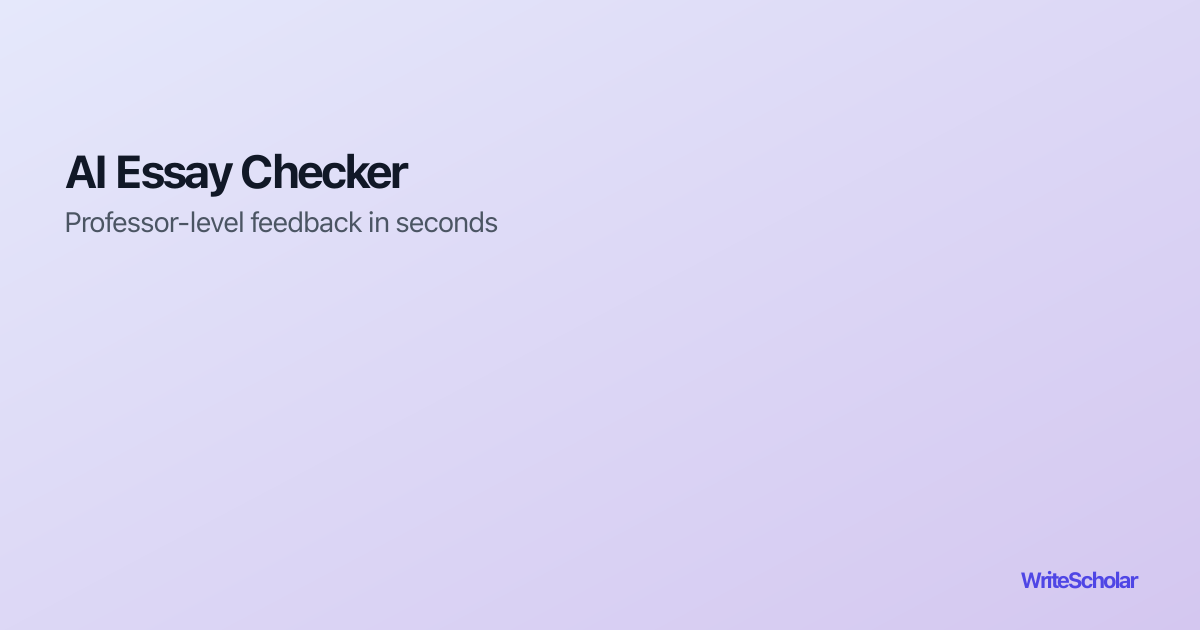
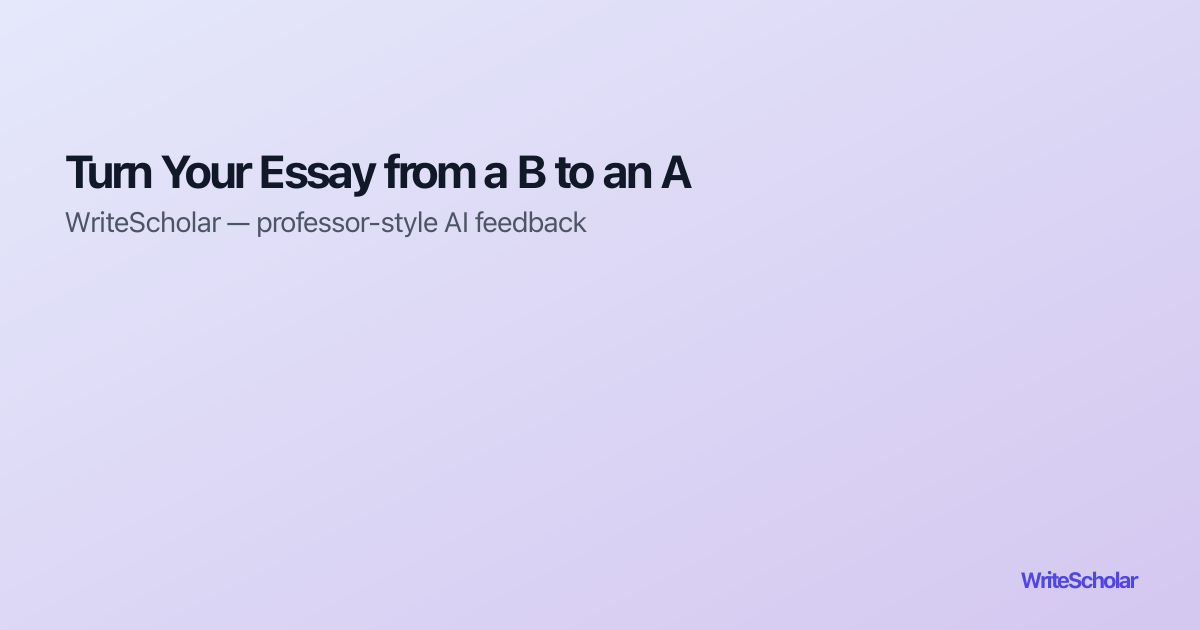
SEO: homepage title B→A; regenerate landing OG image
Made-with: Cursor

Changed region(s): [[0.0308, 0.2413, 0.5858, 0.3921]]

diff --git a/index.html b/index.html
@@ -16,14 +16,14 @@
     <meta name="viewport" content="width=device-width, initial-scale=1.0, viewport-fit=cover" />
 
     <!-- PRIMARY SEO META TAGS -->
-    <title>AI Essay Checker — Professor-Level Feedback in Seconds | WriteScholar</title>
-    <meta name="description" content="Professor-level essay feedback in seconds—structure, argument, citations, and clarity. Plus study packs, quizzes, and Focus Mode. Free to try." />
+    <title>WriteScholar: Turn Your Essay from a B to an A</title>
+    <meta name="description" content="Let our advanced AI check your essay and get professor-style feedback in seconds. Improve your grade instantly." />
 
     <!-- OPEN GRAPH -->
     <meta property="og:type" content="website" />
     <meta property="og:url" content="https://writescholar.com/" />
-    <meta property="og:title" content="AI Essay Checker — Professor-Level Feedback in Seconds | WriteScholar" />
-    <meta property="og:description" content="Professor-level essay feedback in seconds—structure, argument, citations, and clarity. Plus study packs, quizzes, and Focus Mode. Free to try." />
+    <meta property="og:title" content="WriteScholar: Turn Your Essay from a B to an A" />
+    <meta property="og:description" content="Let our advanced AI check your essay and get professor-style feedback in seconds. Improve your grade instantly." />
     <meta property="og:image" content="https://writescholar.com/og/landing.png" />
     <meta property="og:image:width" content="1200" />
     <meta property="og:image:height" content="630" />
@@ -33,8 +33,8 @@
 
     <!-- TWITTER CARD -->
     <meta name="twitter:card" content="summary_large_image" />
-    <meta name="twitter:title" content="AI Essay Checker — Professor-Level Feedback in Seconds | WriteScholar" />
-    <meta name="twitter:description" content="Professor-level essay feedback in seconds—structure, argument, citations, and clarity. Plus study packs, quizzes, and Focus Mode. Free to try." />
+    <meta name="twitter:title" content="WriteScholar: Turn Your Essay from a B to an A" />
+    <meta name="twitter:description" content="Let our advanced AI check your essay and get professor-style feedback in seconds. Improve your grade instantly." />
     <meta name="twitter:image" content="https://writescholar.com/og/landing.png" />
     <meta name="twitter:image:alt" content="WriteScholar — AI essay feedback and study tools for college and university students." />
     <meta name="twitter:site" content="@writescholar" />
@@ -56,7 +56,7 @@
       "applicationCategory": "EducationalApplication",
       "applicationSubCategory": "Study Tools",
       "operatingSystem": "Web",
-      "description": "Professor-level essay feedback in seconds—structure, argument, citations, and clarity. Plus study packs, quizzes, and Focus Mode. Free to try.",
+      "description": "Let our advanced AI check your essay and get professor-style feedback in seconds. Improve your grade instantly.",
       "url": "https://writescholar.com",
       "featureList": ["Essay Analyzer - Get Professor-Style Feedback", "Grade-Level Rubric", "Focus Mode - Block Websites Until You Study", "AI Quiz Generator", "AI Flashcard Maker", "AI Crossword Builder", "Paper Summarizer", "Citation Finder"],
       "offers": [
@@ -91,8 +91,8 @@
   <body>
     <div id="root"></div>
     <noscript>
-      <h1>AI Essay Checker with Professor-Level Feedback in Seconds</h1>
-      <p>Professor-level essay feedback in seconds—structure, argument, citations, and clarity. Plus study packs, quizzes, and Focus Mode. Free to try.</p>
+      <h1>WriteScholar: Turn Your Essay from a B to an A</h1>
+      <p>Let our advanced AI check your essay and get professor-style feedback in seconds. Improve your grade instantly.</p>
       <h2>Analyze Papers with Feedback That Thinks Like a Professor</h2>
       <h2>Earn Your Screen Time. Block Sites Until You Study</h2>
       <h2>Create Study Material from Any Notes in Seconds</h2>

diff --git a/src/components/pages/LandingPage.tsx b/src/components/pages/LandingPage.tsx
@@ -691,13 +691,12 @@ const LandingPage = ({ onNavigate, user }: LandingPageProps) => {
                   className="text-[1.5rem] sm:text-4xl lg:text-[2.65rem] xl:text-[2.75rem] font-semibold tracking-tight leading-[1.15] mb-4 text-center px-0.5 break-words text-balance"
                   style={{ fontFamily: "'EB Garamond', Georgia, 'Times New Roman', serif" }}
                 >
-                  <span className="text-stone-900 dark:text-stone-50">AI Essay Checker with </span>
-                  <span className="text-emerald-800 dark:text-emerald-400">Professor</span>
-                  <span className="text-stone-900 dark:text-stone-50">-</span>
-                  <span className="text-amber-700 dark:text-amber-400">Level</span>{' '}
-                  <span className="text-red-700 dark:text-red-400">Feedback</span>
-                  <span className="text-stone-900 dark:text-stone-50"> in Seconds</span>
-            </h1>
+                  <span className="text-violet-700 dark:text-violet-300">WriteScholar:</span>{' '}
+                  <span className="text-stone-900 dark:text-stone-50">Turn Your Essay from a </span>
+                  <span className="text-amber-700 dark:text-amber-400">B</span>
+                  <span className="text-stone-900 dark:text-stone-50"> to an </span>
+                  <span className="text-emerald-700 dark:text-emerald-400">A</span>
+                </h1>
                 <p className="text-base sm:text-[1.05rem] text-stone-600 dark:text-stone-400 mb-4 max-w-xl mx-auto text-center leading-relaxed">
                   <span className="font-semibold text-stone-800 dark:text-stone-200">Better Essays. Higher Grades. Instantly. </span>
                   See exactly what to fix before you submit.

diff --git a/src/components/CompleteAcademicAIApp.tsx b/src/components/CompleteAcademicAIApp.tsx
@@ -275,7 +275,7 @@ const AcademicAIApp = () => {
     string,
     { title: string; description: string; ogImage?: string; ogImageAlt?: string }
   > = {
-    landing: { title: 'AI Essay Checker — Professor-Level Feedback in Seconds | WriteScholar', description: 'Professor-level essay feedback in seconds—structure, argument, citations, and clarity. Plus study packs, quizzes, and Focus Mode. Free to try.' },
+    landing: { title: 'WriteScholar: Turn Your Essay from a B to an A', description: 'Let our advanced AI check your essay and get professor-style feedback in seconds. Improve your grade instantly.' },
     analyze: { title: 'AI Essay Checker — Professor-Level Feedback in Seconds | WriteScholar', description: 'Paste or upload your paper for professor-level feedback on thesis, evidence, structure, and citations. Choose your education level for rubrics that match your course. Free to try.' },
     citations: { title: 'Citation Finder for College Papers — APA, MLA, Chicago | WriteScholar', description: 'Find peer-reviewed sources for research papers. Search by topic; export APA, MLA, Chicago, or Harvard citations. Built for bibliographies and lit reviews.' },
     'study-pack': { title: 'AI Study Pack — Lesson, Flashcards, Quiz, Crossword & More | WriteScholar', description: 'Turn notes into a lesson, flashcards, quiz, crossword, and Crater Blast from one paste. Same study pack flow as the dashboard.' },

diff --git a/src/data/ogRoutes.ts b/src/data/ogRoutes.ts
@@ -15,7 +15,7 @@ export interface OgRouteSpec {
 
 /** One card per `pageMeta` route in CompleteAcademicAIApp (excluding blog-post; blog uses per-slug files). */
 export const ogRoutes: OgRouteSpec[] = [
-  { pageKey: 'landing', file: 'landing', headline: 'AI Essay Checker', sub: 'Professor-level feedback in seconds', hue: 232 },
+  { pageKey: 'landing', file: 'landing', headline: 'Turn Your Essay from a B to an A', sub: 'WriteScholar — professor-style AI feedback', hue: 232 },
   { pageKey: 'analyze', file: 'analyze', headline: 'AI Essay Checker', sub: 'Professor-level feedback on your draft', hue: 238 },
   { pageKey: 'citations', file: 'citations', headline: 'Citation Finder', sub: 'APA, MLA, Chicago & more', hue: 200 },
   { pageKey: 'study-pack', file: 'study-pack', headline: 'AI Study Pack', sub: 'Lesson, flashcards, quiz & crossword', hue: 168 },
